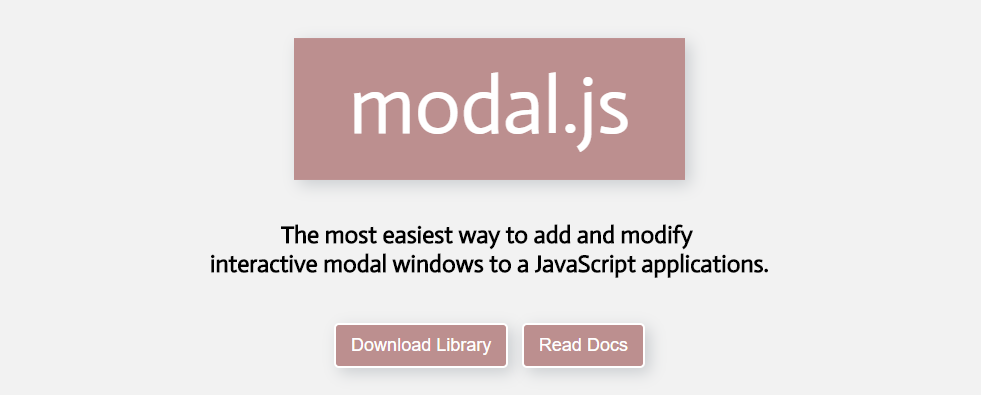
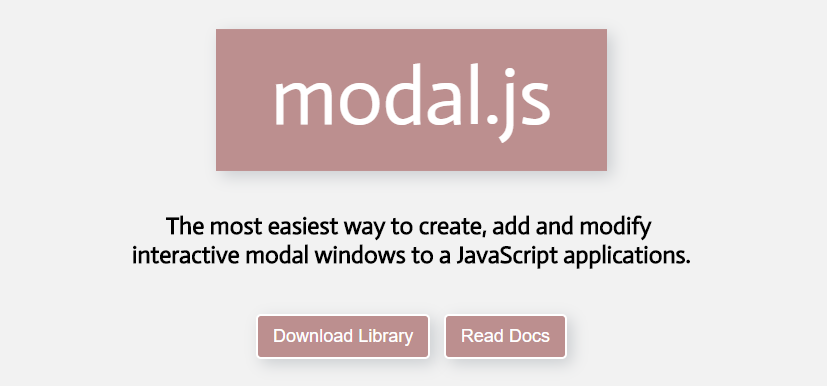
Update index.html design and open graph card

diff --git a/index.html b/index.html
@@ -29,8 +29,8 @@
 
 <body>
   <img src="./images/modaljs.svg" alt="modaljs" class="logo">
-  <h2 class="main-tagline">The most easiest way to create, add and modify interactive modal windows to a JavaScript applications.</h2>
-  <p class="main-desc">Chose from wide variety of iconic animations and build any kind of notification popups, off-the-screen forms, beautiful nav bars and much more!</p>
+  <h2 class="main-tagline">The most easiest way to create, add and modify <br>interactive modal windows to a JavaScript applications.</h2>
+  <p class="main-desc">Chose from wide variety of iconic animations and build any kind of <br>notification popups, off-the-screen forms, beautiful nav bars and much more!</p>
   <div class="btn-group">
     <button class="btn" onclick="$('#download').animatescroll({scrollSpeed:1000,easing:'easeOutSine'});">Download Library</button>
     <button class="btn" onclick="$('#documentation').animatescroll({scrollSpeed:1000,easing:'easeOutSine'});">Read Docs</button>
